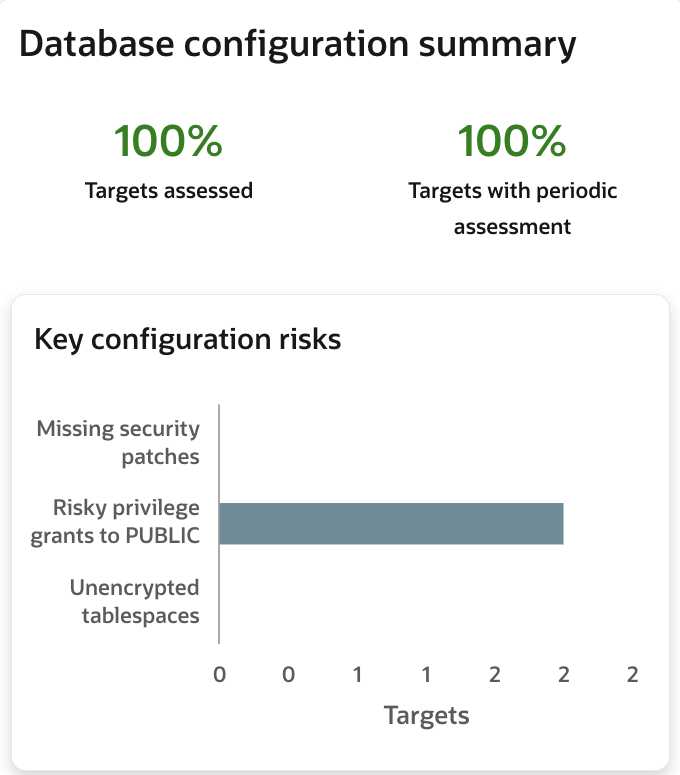
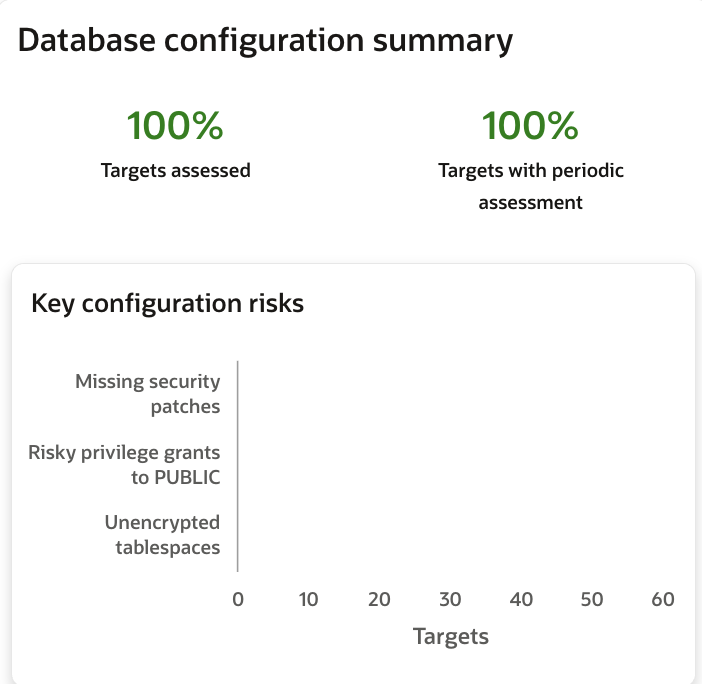
AVDF360Livelab-9

diff --git a/database/advanced/avdf-restructured/protect-prevent.md b/database/advanced/avdf-restructured/protect-prevent.md
@@ -1,23 +1,23 @@
 # Protect and Prevent: enforce controls
 
 ## Introduction
-Now, we will move to configure protection and prevention controls to alert or block any unauthorized activity in the Oracle Database targets **Employees_search** and **Customer_orders** pdbs. These controls enforce strong security boundaries within the database environment. The controls include
+Now, we will move to configure protection and prevention controls to alert or block any unauthorized activity in the Oracle Database targets *`Employees_search`* and *`Customer_orders`* pdbs. These controls enforce strong security boundaries within the database environment. The controls include
 **Oracle Database Vault**, **Oracle SQL Firewall** and **Database Firewall**. 
 
-The **Employees_search** is to be protected from insider threats, unauthorized data access attempts, and data exfiltration attempts.Consider **SQL Firewall** (26ai feature) and **Database Firewall** to protect against
+The **`Employees_search`** is to be protected from insider threats, unauthorized data access attempts, and data exfiltration attempts.Consider **SQL Firewall** (26ai feature) and **Database Firewall** to protect against
 - Misuse/abuse of Application Service account and access it from non-trusted path
 - Risks of SQL Injection attacks on self service application to see unauthorized data
 - Misuse/abuse of privileged DBAs credentials to do any DMLs on EMPLOYEESEARCH_PROD application schema sensitive database objects over the network
 - Data exfiltration attempts by privileged DBAs over the network of sensitive application data 
 
-The **Customer_orders** is to be protected from external threats. Stricter segregation of and access control policies play a major role in mitigating potential risks. You plan to configure Database Vault to ensure that
+The **`Customer_orders`** is to be protected from external threats. Stricter segregation of and access control policies play a major role in mitigating potential risks. You plan to configure Database Vault to ensure that
 - Only realm authorized users can connect to sensitive application schema.
 - Business users like Alex are authorized to query the authorized queries
 - Close monitoring of any realm violations and security relevant events 
 
 Together, these controls create a layered defense strategy that safeguards sensitive data and ensures only authorized activity is permitted across the database environment.
 
-*Estimated Lab Time:* 45 minutes
+*Estimated Lab Time:* 30 minutes
 
 *Version tested in this lab:* Oracle AVDF Next Gen
 
@@ -33,13 +33,13 @@ Watch a preview of "*LiveLabs - Oracle Audit Vault and Database Firewall*" [](yo
 
 ## Task 1: Use SQL Firewall to allow only authorized SQL statements and connections
 
-SQL Firewall is enabled in the **Employees_search** pdb in the livelab environment. In this lab, we will do the following:
+SQL Firewall is enabled in the **`Employees_search`** pdb in the livelab environment. In this lab, we will do the following:
 -   You will make SQL Firewall learn the authorized application SQL statements of Employee Search Glassfish application service account EMPLOYEESEARCH_PROD from trusted connection paths.  
 -   You will create the SQL Firewall policy with approved SQLs for EMPLOYEESEARCH_PROD account coming from specific IP address and client program
 -   You will enforce the SQL Firewal policy to check SQL statements and session connection attributes, and block if there is any mismatch.
 
 
-### Step 1: Ensure SQL Firewall is enabled in **Employees_search** pdb
+### Step 1: Ensure SQL Firewall is enabled in **`Employees_search`** pdb
 
 1. Go to Audit Vault Web Console as *`AVAUDITOR`*
 
@@ -48,14 +48,14 @@ SQL Firewall is enabled in the **Employees_search** pdb in the livelab environme
 2. Click on the **Policies** tab, expand **Firewall Policies** in the left menu, and click **Oracle SQL Firewall**
     ![AVDF](./images/360-20.png "AVDF - Oracle SQL Firewall page")
 
-    **Note** Review the column **SQL Firewall status** for the target **Employees_search**, make sure the status shows as **Enabled**
+    **Note** Review the column **SQL Firewall status** for the target **`Employees_search`**, make sure the status shows as **Enabled**
 
-    - Click the target **Employees_search** to drilldown to start configuring
+    - Click the target **`Employees_search`** to drilldown to start configuring
 
 ### Step 2: Make SQL Firewall learn the approved SQL statements and trusted connection paths for  EMPLOYEESEARCH_PROD user 
 
 1. Expand the collapsible region **SQL learning for users (0)** 
-2. Filter for **EMPLOYEESEARCH_PROD** user, select and click **Start**
+2. Filter for **`EMPLOYEESEARCH_PROD`** user, select and click **Start**
      ![AVDF](./images/360-21.png "AVDF - SQL Firewall policy- Employees Search pdb")
 
  3. Select the following in **Start learning** popup, and click **Start**
@@ -63,7 +63,7 @@ SQL Firewall is enabled in the **Employees_search** pdb in the livelab environme
     - Only top level SQL: *Checked*
        ![AVDF](./images/360-22.png "AVDF - SQL Firewall policy- Start learning popup")  
  
- **Note** Review the column **Status** for the user **EMPLOYEESEARCH_PROD**, make sure the status shows as **Learning started**
+ **Note** Review the column **Status** for the user **`EMPLOYEESEARCH_PROD`**, make sure the status shows as **Learning started**
 
  ### Step 3: Launch the HR glassfish app and execute the normal workload
  
@@ -131,7 +131,7 @@ SQL Firewall is enabled in the **Employees_search** pdb in the livelab environme
 
 ### Step 4: Ensure the SQL Firewall has learned the normal workload queries of EMPLOYEESEARCH_PROD user
 
-1. On AVDF console, expand **SQL learning for users (0)**, select the user **EMPLOYEESEARCH_PROD** 
+1. On AVDF console, expand **SQL learning for users (0)**, select the user **`EMPLOYEESEARCH_PROD`** 
         
     - Click **View learning data** to see the SQL Queries captured by SQL Firewall that were executed on HR Glassfish app.
             ![AVDF](./images/360-23.png "AVDF - SQL Firewall policy- View learning data") 
@@ -143,12 +143,12 @@ SQL Firewall is enabled in the **Employees_search** pdb in the livelab environme
 
 **Note** Normally, you will consider stopping once you’re confident the system has fully learned all authorized and approved SQL statements from trusted connection paths.
 
-### Step 5: Enable the SQL Firewall policy created for EMPLOYEESEARCH_PROD user
+### Step 5: Enable the SQL Firewall policy created for `EMPLOYEESEARCH_PROD` user
 
 1. Expand **SQL Firewall policy for user** region 
     ![AVDF](./images/360-25.png "AVDF - SQL Firewall policy- create policy popup")
 
-**Note** Notice that SQL Firewall policy for **EMPLOYEESEARCH_PROD** is automatically created and is in **Disabled** status
+**Note** Notice that SQL Firewall policy for **`EMPLOYEESEARCH_PROD`** is automatically created and is in **Disabled** status
 
 2. Select the entry and click **Enable** to open a popup for choosing enabling conditions.
     - Select the following:
@@ -159,7 +159,7 @@ SQL Firewall is enabled in the **Employees_search** pdb in the livelab environme
     - Click **Enable** to see the following setting configured for the policy
     ![AVDF](./images/360-27.png "AVDF - SQL Firewall policy- policy configured")
 
-3. Drilldown the SQL Firewall policy for **EMPLOYEESEARCH_PROD** to review the details
+3. Drilldown the SQL Firewall policy for **`EMPLOYEESEARCH_PROD`** to review the details
     - Review the enforcement options
     - Review the session context
         - Review the **Client IP address** captured
@@ -179,7 +179,7 @@ You can see the same from "**Targets**" > "**Audit Trails**" (with **AVADMIN** l
 
 ![AVDF](./images/360-29.png "Audit Trail")
 
-**Notes** Ensure the **DBA**_**SQL**_**FIREWALL**_**VIOLATIONS** table audit trails are either in **Collecting** or in **Idle** state
+**Notes:** Ensure the *`DBA_SQL_FIREWALL_VIOLATIONS`* table audit trails are either in **Collecting** or in **Idle** state
 
 ### Step 7: Trigger SQL Firewall violations
 We will validate the protection controls of SQL Firewall by triggering violations. Let us simulate SQL Firewall context violations by connecting as *SQLPLUS*
@@ -187,7 +187,7 @@ We will validate the protection controls of SQL Firewall by triggering violation
         ````
         <copy>cd $DBSEC_LABS/avdf/sqlfw</copy>
         ````
-    - Imagine you are that someone who has access to the stolen app service account credentials of **EMPLOYEESEARCH_PROD**, and you are trying to access the database bypassing the application normal access path.
+    - Imagine you are that someone who has access to the stolen app service account credentials of **`EMPLOYEESEARCH_PROD`**, and you are trying to access the database bypassing the application normal access path.
 
         ````
         <copy>./avs_sqlfw_risk.sh</copy>
@@ -248,9 +248,7 @@ Now, let's simulate SQL Firewall statement violations by using Glassfish HR app 
 
 2. Click on the **Policies** tab, expand **Firewall Policies** in the left menu, and click **Oracle SQL Firewall**
     ![AVDF](./images/360-31.png "AVDF - Oracle SQL Firewall page with violations")
-        **Note:**
-        - There are SQL context violation(s) since we tried to access **employee_search** pdb with *SQLPLUS* script
-        - There are SQL statement violation(s) since we made SQL injection attempts using unathorized SQLs over Glassfish app
+        **Notes:** There are SQL context violation(s) since we tried to access **`employee_search`** pdb with *`SQLPLUS`* script. There are SQL statement violation(s) since we made SQL injection attempts using unathorized SQLs over Glassfish app.
 
 3. Click on the **Reports** tab, expand **SQL Firewall Violations Report**, and click **SQL Firewall Violations** report
     ![AVDF](./images/360-32.png "AVDF - Oracle SQL Firewall page with violations")
@@ -322,7 +320,7 @@ In this task, we will do the following
 
 3. Now, check the DB Firewall Monitoring mode for `employees_search`
 
-    - Click the **Targets** tab and click **employees_search**
+    - Click the **Targets** tab and click **`Employees_search`**
 
     - In the **Database Firewall Monitoring** section, check that monitoring is up and running
 
@@ -349,7 +347,7 @@ In this task, we will do the following
         ![AVDF](./images/avdf-105.png "Check the connectivity to the database WITHOUT the Database Firewall")
 
         **Note**:
-        - This will connect to the pluggable database pdb1 **directly** on the standard listener port **1521**
+        - This will connect to the pluggable database freepdb1 **directly** on the standard listener port **1521**
         - You should see that the connection shows **10.0.0.150** which is the IP Address of the DBSec-Lab VM
 
     - Verify connectivity to **Employees_search** pdb **WITH** the Database Firewall
@@ -366,7 +364,7 @@ In this task, we will do the following
 
 ### Step 2: Configure the HR Glassfish App to use the DB Firewall
 
-In this lab you will modify the Glassfish connection (instead of connecting directly to the pluggable database **Employees_search**, Glassfish will connect through the DB Firewall so we can monitor, and block, SQL commands)
+In this lab you will modify the Glassfish app to connect to DB Firewall, which will inturn connect to the pluggable database **`Employees_search`**. DB Firewall will monitor the incoming SQL traffic and can decide to alert, block or pass the SQL traffic to the database.
 
 1. Go to the terminal session and migrate the Glassfish App connection string to proxy through the Database Firewall
 
@@ -376,13 +374,15 @@ In this lab you will modify the Glassfish connection (instead of connecting dire
 
     ![AVDF](./images/avdf-118.png "Set HR App with Database firewall")
 
-2. Add the IP Address of the DB Firewall VM **10.0.0.152** to the SQL Firewall policy for **EMPLOYEESEARCH_PROD** user
+2. SQL Firewall policy for **`EMPLOYEESEARCH_PROD`** application user should now allow-list the IP Address of the DB Firewall VM **10.0.0.152** 
+
+    - Go back to Audit Vault Web Console as *AVAUDITOR*
 
     - Click on the **Policies** tab, expand **Firewall Policies** in the left menu, and click **Oracle SQL Firewall**
 
-    - Click the target **Employees_search** to drilldown
+    - Click the target **`Employees_search`** to drilldown
 
-    - Expand **SQL Firewall policy for users (1)** and drilldown into policy for user **EMPLOYEESEARCH_PROD**
+    - Expand **SQL Firewall policy for users (1)** and drilldown into policy for user **`EMPLOYEESEARCH_PROD`**
 
     - Exapnd **Session context** to enter DB Firewall VM IP Address **10.0.0.152** to allowed **Client IP address** list
 
@@ -574,7 +574,7 @@ In this lab you will modify the Glassfish connection (instead of connecting dire
     ````
     <copy> //This is new script in dbf folder
     connect as dba_debra@firewall IP: proxyport/freepdb1
-    $ORACLE_HOME/bin/sqlplus DBA_DEBRA/Oracle123@10.0.0.152:15223/freepdb1
+    //$ORACLE_HOME/bin/sqlplus DBA_DEBRA/Oracle123@10.0.0.152:15223/freepdb1
     delete from EMPLOYEESEARCH_PROD.DEMO_HR_USERS where userid=1000; //this should get blocked
     select count(*) from EMPLOYEESEARCH_PROD.DEMO_HR_USERS; //this should raise alert
     select * from EMPLOYEESEARCH_PROD.DEMO_HR_EMPLOYEES; ////this should raise alert
@@ -586,7 +586,7 @@ In this lab you will modify the Glassfish connection (instead of connecting dire
     **Note**: Database Firewall blocks the DELETE statement since we have not permitted DBA_DEBRA to do DMLs on sensitive app objects over the network
 
 
-2. Let's see when EMPLOYEESEARCH_PROD connects using DB Firewall to query the sensitive application objects
+2. Let's see when `EMPLOYEESEARCH_PROD` connects using DB Firewall to query the sensitive application objects
 
     ````
     <copy>./dbf_exfiltrate_with_dbfw.sh </copy>
@@ -594,7 +594,7 @@ In this lab you will modify the Glassfish connection (instead of connecting dire
 
     ![AVDF](./images/avdf-128a.png "Check the connectivity through the Database Firewall")
 
-   **Note**: You see a SQL Firewall context violation error as EMPLOYEESEARCH_PROD user is allowed to connect only through Glassfish app (JDBC Thin Client) as per the SQL Firewall policy configured
+   **Note**: You see a SQL Firewall context violation error as `EMPLOYEESEARCH_PROD` user is allowed to connect only through Glassfish app (JDBC Thin Client) as per the SQL Firewall policy configured
 
 
 ### Step 5: Monitor Database Firewall violations from console
@@ -660,17 +660,12 @@ In this lab you will modify the Glassfish connection (instead of connecting dire
    ````
     <copy> //This is new script in dbf folder
     connect as dba_debra@firewall IP: proxyport/freepdb1
-    $ORACLE_HOME/bin/sqlplus DBA_DEBRA/Oracle123@10.0.0.152:15223/freepdb1
+    //$ORACLE_HOME/bin/sqlplus DBA_DEBRA/Oracle123@10.0.0.152:15223/freepdb1
     delete from EMPLOYEESEARCH_PROD.DEMO_HR_USERS where userid=1000; //this should get blocked
     select count(*) from EMPLOYEESEARCH_PROD.DEMO_HR_USERS; //this should raise alert
     select * from EMPLOYEESEARCH_PROD.DEMO_HR_EMPLOYEES; ////this should raise alert
     </copy>
     ````
-
-    ![AVDF](./images/avdf-128.png "Check the connectivity through the Database Firewall")
-
-    **Note**: Database Firewall blocks the DELETE statement since we have not permitted DBA_DEBRA to do DMLs on sensitive app objects over the network
-
 
 6. Let's check the Database Firewall alerts that were generated
 
@@ -730,19 +725,19 @@ Database Vault is enabled in the **Customer_orders** pdb in the livelab environm
 
     - Click the target **Customer_orders** to explore further
 
-3. Click **Provide credentials to manage policies** and provide C##DVOWNER credentials 
+3. Click **Provide credentials to manage policies** and provide C##DVOWNER credentials ('Oracle123')
     ![AVDF](./images/360-51.png "AVDF - Oracle DV page credentials")
 
 4. Expand to see the **Object protection** pre-configured in the livelab
   ![AVDF](./images/360-52.png "AVDF - Oracle DV page credentials")
 
-  **Note** Review to see the realm **PROTECT_CUSTOMER_ORDERS** pre-created in the instance. The objects belonging to schema **CO** are protected in this realm. Only the schema owner is authorized to access this protected object.
+  **Note** Review to see the realm **"PROTECT_CUSTOMER_ORDERS"** pre-created in the instance. The objects belonging to schema **CO** are protected in this realm. Only the schema owner is authorized to access this protected object.
 
 ### Step 2: Add a user as authorized user of the realm
 We will plan to add business user BA_ALEX as authorized participant of the realm object for reporting purposes, typically read-only access to the Customer Orders schema.
 
 1. Expand the region **Authorized users/roles**, and click **Add**
-2. Enter **BA_ALEX** as user
+2. Check **Select users/roles** and enter **BA_ALEX** as user
 ![AVDF](./images/360-53.png "AVDF - Oracle DV page credentials-add user")
 3. Select **Success** and **Failure** in **Audit Details** region
 4. Click **Save**
@@ -776,9 +771,9 @@ You can see the same from "**Targets**" > "**Audit Trails**" (with **AVADMIN** l
 
 ![AVDF](./images/360-55.png "DV - fire query")
 
-**Note**
-    -   BA_ALEX has the object privelege access on CO.Orders; BA_ALEX also has necessary DV realm authorization on schema CO
-    -   CUSTOMERADMIN has the object privilege access on CO.Orders; but no DV realm authorization on schema CO
+**Notes:**
+- `BA_ALEX` has the object privelege access on CO.Orders; BA_ALEX also has necessary DV realm authorization on schema CO
+-  `CUSTOMERADMIN` has the object privilege access on CO.Orders; but no DV realm authorization on schema CO
 
 ### Step 5: Monitor and alert on DV realm violations
 

diff --git a/database/advanced/avdf-restructured/assess-discover.md b/database/advanced/avdf-restructured/assess-discover.md
@@ -3,7 +3,7 @@
 ## Introduction
 Assessing your database - its risks, user access, and the sensitivity of stored data is essential to understanding your current security posture. It provides a clear view of potential vulnerabilities, exposure points, and privilege misuse that could impact your environment. This insight enables you to prioritize mitigation efforts effectively and focus on the areas that pose the greatest risk to your organization.
 
-*Estimated Lab Time:* 20 minutes
+*Estimated Lab Time:* 10 minutes
 
 *Version tested in this lab:* Oracle AVDF Next Gen
 
@@ -36,8 +36,9 @@ By offering a simplified, fleet-wide perspective across your entire fleet of Ora
     ![AVDF](./images/360-1.png "AVDF - Security Insights console")   
 
 4. Review the key configuration risks under **Database configuration summary**
-    ![AVDF](./images/360-1a.png "AVDF - Security Insights - Configuration summary") 
-
+    - Observe the configuration risks that need to be mitigated
+        ![AVDF](./images/360-1aa.png "AVDF - Security Insights - User Assessment") 
+    
     - Drilldown into the bar showing **Risky privilege grants to PUBLIC** 
         ![AVDF](./images/360-1b.png "AVDF - Security Insights - System privileges")
 
@@ -85,7 +86,7 @@ By offering a simplified, fleet-wide perspective across your entire fleet of Ora
     ![AVDF](./images/avdf-501.png "AVDF - Retrieval Jobs") 
     
     - Under **Security Assessment**
-        - Checkbox **Assess Immediately** 
+        - Select checkbox **Assess Immediately** 
         - Click [**Save**] to save and continue
     
     - Do the same for **sales_history**          
@@ -93,7 +94,7 @@ By offering a simplified, fleet-wide perspective across your entire fleet of Ora
 7. Go to the **Security Insights** console 
 
     - Review the key configuration risks under **Database configuration summary**
-    ![AVDF](./images/360-1a.png "AVDF - Security Insights - Configuration summary") 
+        ![AVDF](./images/360-1a.png "AVDF - Security Insights - Configuration summary") 
 
     **Note**:
     - Now, you can see risks in **Risky privilege grants to PUBLIC** are resolved.
@@ -101,14 +102,16 @@ By offering a simplified, fleet-wide perspective across your entire fleet of Ora
 8. Review the Drifts detected in **Security assessment drift detection**
     ![AVDF](./images/360-1c.png "AVDF - Security Insights - Security Assessment Drift Detection") 
 
-    - Click on the pipeline with drifts to see the popup showing the risks mitigated 
+    - Click on the pipeline with drifts to see the popup showing the risks involving **grants to PUBLIC** mitigated 
     ![AVDF](./images/360-1d.png "AVDF - Security Insights - Security Assessment Drifts Report ") 
+
+    -Close the popup
 
 
 ### Step 2: Evaluate user risk across the Oracle Databases
 
 1.  Review the key privilege user risks under **User assessment summary**
-    ![AVDF](./images/360-1e.png "AVDF - Security Insights - User Assessment") 
+        ![AVDF](./images/360-1e.png "AVDF - Security Insights - User Assessment") 
 
 2.  Drilldown into the bar showing privileged users **Access not audited** 
     - Filter the report to show only database admins among the priveleged users
@@ -125,7 +128,7 @@ By offering a simplified, fleet-wide perspective across your entire fleet of Ora
 
 
 1.  Review the sensitive data access not audited under **Data discovery summary**
-    ![AVDF](./images/360-3.png "AVDF - Security Insights - Data discovery") 
+        ![AVDF](./images/360-3.png "AVDF - Security Insights - Data discovery") 
 
 2.  Drilldown into the bar showing sensitive data whose **Access not audited** 
     ![AVDF](./images/360-4.png "AVDF - Security Insights - Data discovery - Access not audited")

diff --git a/database/advanced/avdf-restructured/getting-started.md b/database/advanced/avdf-restructured/getting-started.md
@@ -1,7 +1,7 @@
 # Oracle Audit Vault and DB Firewall (AVDF)
 
 ## Introduction
-As a security administrator, your mission is to protect and monitor a growing fleet of Oracle databases—ensuring both operational efficiency and data security. This workshop introduces you to multiple pre-seeded Pluggable Databases (PDBs), including **Employees_search** and **Customer_orders**, and demonstrates how AVDF empowers you to manage and secure a database fleet at scale.
+As a security administrator, your mission is to protect and monitor a growing fleet of Oracle databases—ensuring both operational efficiency and data security. This workshop introduces you to multiple pre-seeded Pluggable Databases (PDBs), including **`Employees_search`** and **`Customer_orders`**, and demonstrates how AVDF empowers you to manage and secure a database fleet at scale.
 
 - **Employees_search PDB** powers the company’s in-house self-service HR application, giving employees access to sensitive personal and salary information. Its integrity, availability, and security are critical to maintaining trust and operational continuity.
 
@@ -9,7 +9,7 @@ As a security administrator, your mission is to protect and monitor a growing fl
 
 Through this workshop, you’ll gain hands-on experience in using AVDF to monitor, protect, and manage these databases, arming you with the tools and insights to secure a real-world database fleet efficiently and confidently.
 
-*Estimated Lab Time:* 90 minutes
+*Estimated Lab Time:* 60 minutes
 
 *Version tested in this lab:* Oracle AVDF NextGen
 
@@ -39,10 +39,10 @@ This lab assumes you have:
 |--|------------------------------------------------------------|-------------|
 || **AVDF Labs**||
 |04| Access AVDF console | <5 minutes|
-|05| Assess your database: risks, users, and data | 20 minutes|
-|06| Establish visibility first: audit and monitor | 20 minutes|
-|07| Protect and Prevent: enforce controls | 20 minutes|
-|08| Continuous vigilance: report and alert | 20 minutes|
+|05| Assess your database: risks, users, and data | 10 minutes|
+|06| Establish visibility first: audit and monitor | 10 minutes|
+|07| Protect and Prevent: enforce controls | 30 minutes|
+|08| Continuous vigilance: report and alert | 5 minutes|
 || **Optional**||
 |09| Reset the AVDF labs config | <5 minutes|
 

diff --git a/database/advanced/avdf-restructured/audit-monitor.md b/database/advanced/avdf-restructured/audit-monitor.md
@@ -5,7 +5,7 @@ Now that you have the necessary insights, you begin by configuring activity moni
 - The **Employees_search** pdb supports internal self-service applications, and contains a high volume of sensitive data and is accessible to privileged users, making insider threat mitigation the top priority. You enable auditing to track security-relevant events, privileged user activity, and access to sensitive data.
 - For the **Customer_orders** pdb, the primary focus is mitigating external threats and demonstrating compliance (e.g., CIS). You enable auditing for system configuration changes, critical database activity, and schema changes, and additionally provision user activity and CIS compliance policies.
 
-*Estimated Lab Time:* 20 minutes
+*Estimated Lab Time:* 10 minutes
 
 *Version tested in this lab:* Oracle AVDF Next Gen
 
@@ -88,7 +88,7 @@ You can see the same from "**Targets**" > "**Audit Trails**" (with **AVADMIN** l
     - Select **Center for Internet Security (CIS) Configuration** and click **Enable**
         ![AVDF](./images/360-16.png "AVDF - CIS Audit policy")
 
-6. Go back to **Audit Policies** and review the policy count for **Employees_search** and **Customer_orders** pdb
+4. Go back to **Audit Policies** and review the policy count for **`Employees_search`** and **`Customer_orders`** pdb
       ![AVDF](./images/360-11.png "AVDF - Audit Policies page")
 
 ### Step 4: Ensure the audit policy provisioning jobs succeeds, and policies enabled on the target

diff --git a/database/advanced/avdf-restructured/report-alert.md b/database/advanced/avdf-restructured/report-alert.md
@@ -3,7 +3,7 @@
 ## Introduction
 Consider establishing a process of continuous monitoring to help meet the requirements of various regulations using the pre-defined reports of AVDF. Consider alerts to pro-actively notify you on actionable events that need to be prioritized for mitigation.
 
-*Estimated Lab Time:* 30 minutes
+*Estimated Lab Time:* 5 minutes
 
 *Version tested in this lab:* Oracle AVDF Next Gen
 